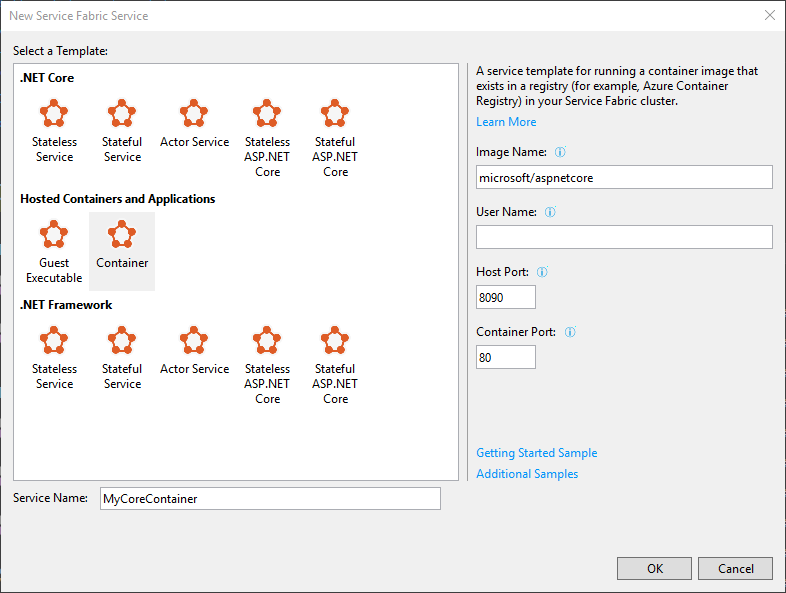
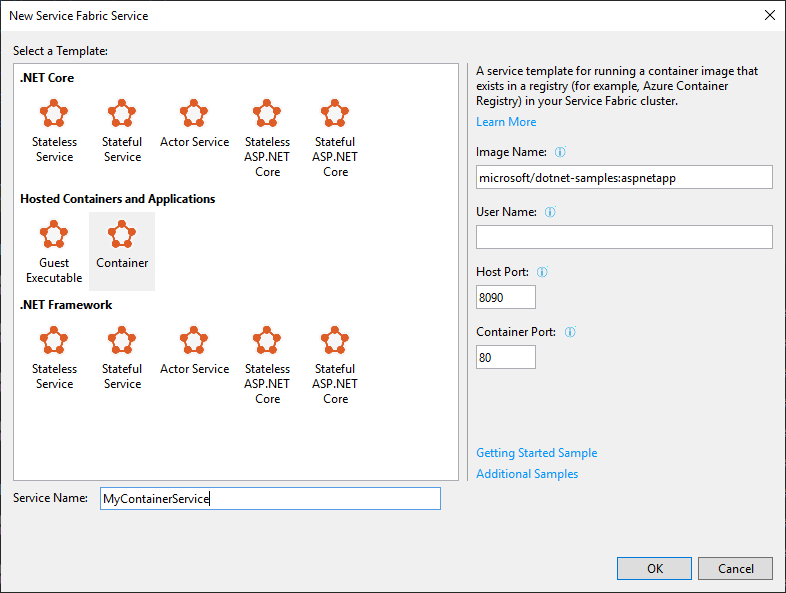
Updating Lab2

diff --git a/lab2/README.md b/lab2/README.md
@@ -7,7 +7,7 @@
 - Run Visual Studio as Administrator
 - Create a Service Fabric application
 - Choose the **Container** template
-- Type **[microsoft/aspnetcore](https://hub.docker.com/r/microsoft/aspnetcore/)** for the ImageName
+- Type **[ ](https://hub.docker.com/r/microsoft/dotnet-samples/)** for the ImageName
 - Leave the User Name field empty
 - Enter **8090** for the Host Port - this is the port that service fabric will use to host your service
 - Enter **80** from the Container Port - this is the port that your container is serving
@@ -18,3 +18,7 @@
 ## Task 2 - Open the New Project in Visual Studio
 
 - Run Visual Studio in Administrative mode
+- Right-click on the project, and Publish...
+
+## Task 3 - Deploy to Your Service Fabric Cluster in Azure
+

diff --git a/lab1/README.md b/lab1/README.md
@@ -51,5 +51,8 @@ More info on Service Fabric:
 - [Walkthrough](https://github.com/Microsoft/MCW-Microservices-architecture/blob/master/Hands-on%20lab/Before%20the%20HOL%20-%20Microservices%20architecture.md#task-7-validate-service-fabric-ports)
 - Setup load balancing probe (HTTP/8080)
 - Setup load balancing port (TCP/8080)
-- Browse http://**YOUR_CLUSTER**.**westus2**.cloudapp.azure.com:8080 (confirm name and region)
 - [More Info](https://docs.microsoft.com/en-us/azure/service-fabric/create-load-balancer-rule)
+
+## Task 8 - Browse and Test Application
+
+- Browse http://**YOUR_CLUSTER**.**westus2**.cloudapp.azure.com:8080 (confirm your cluster name and region)
